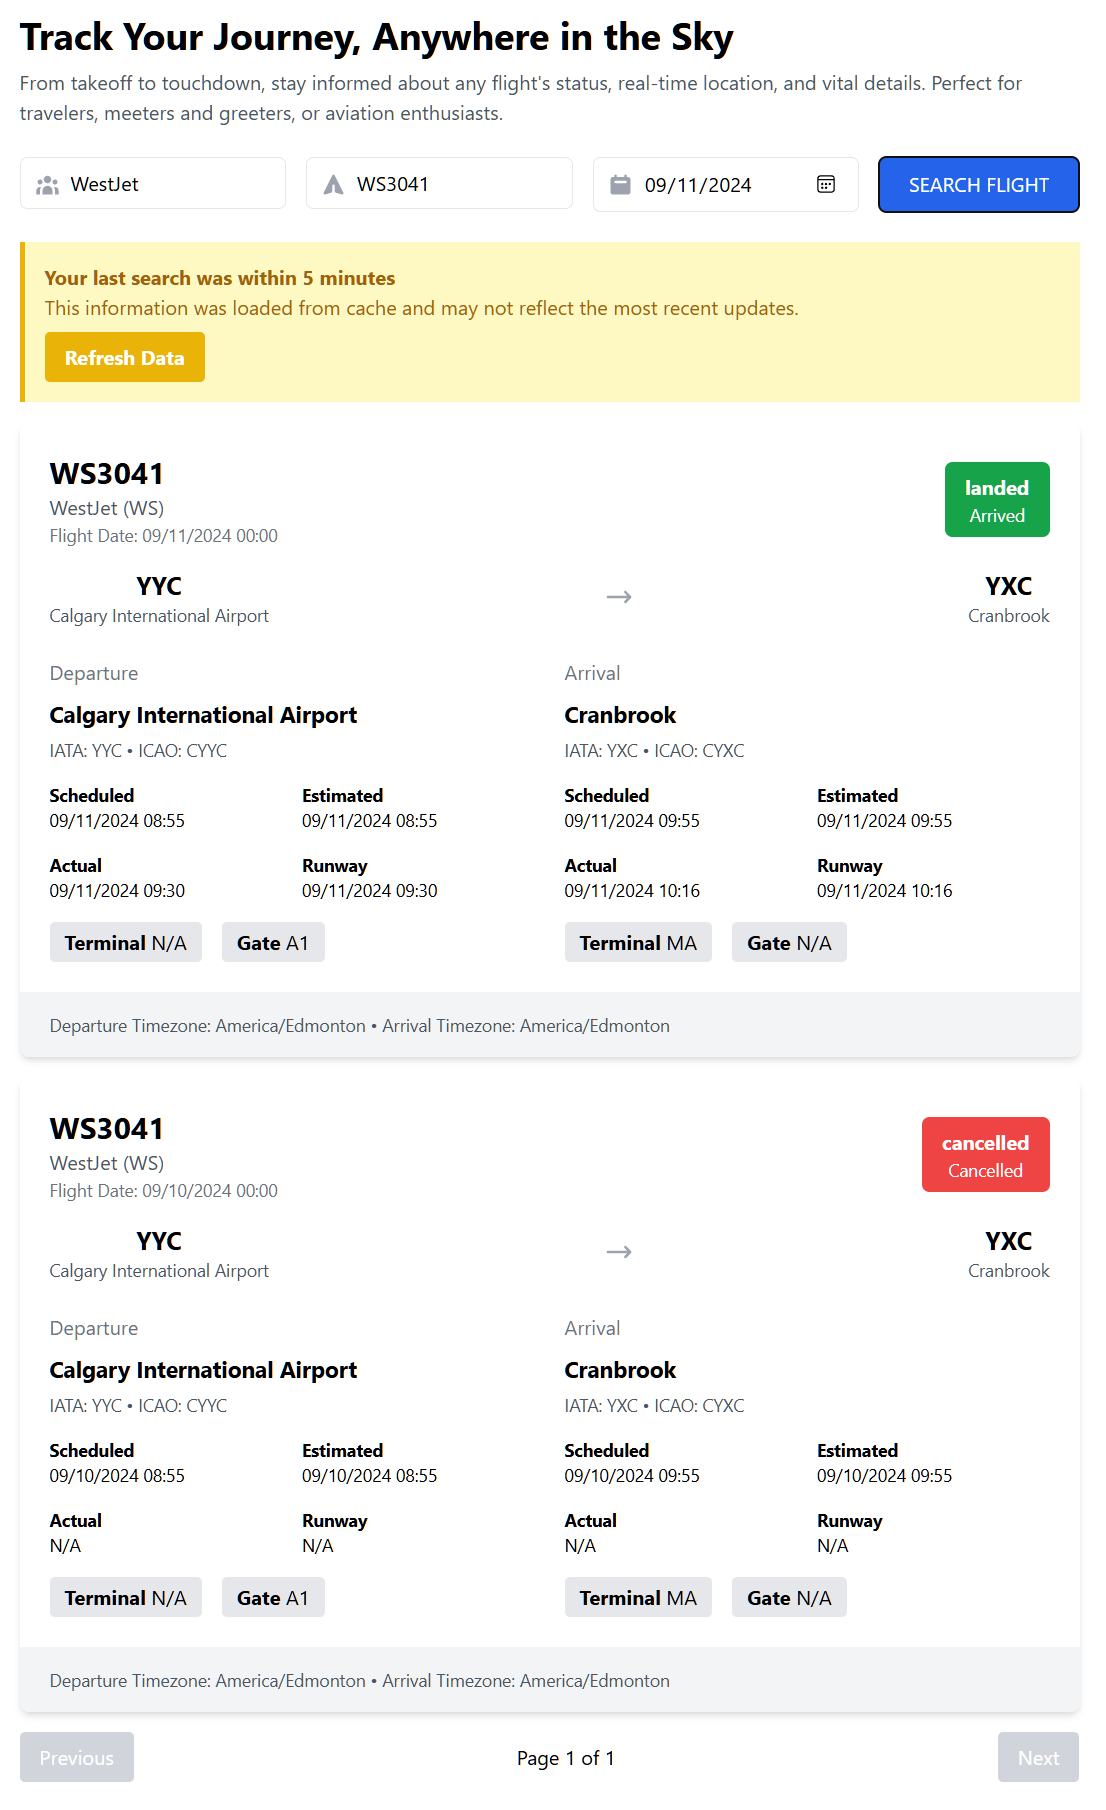
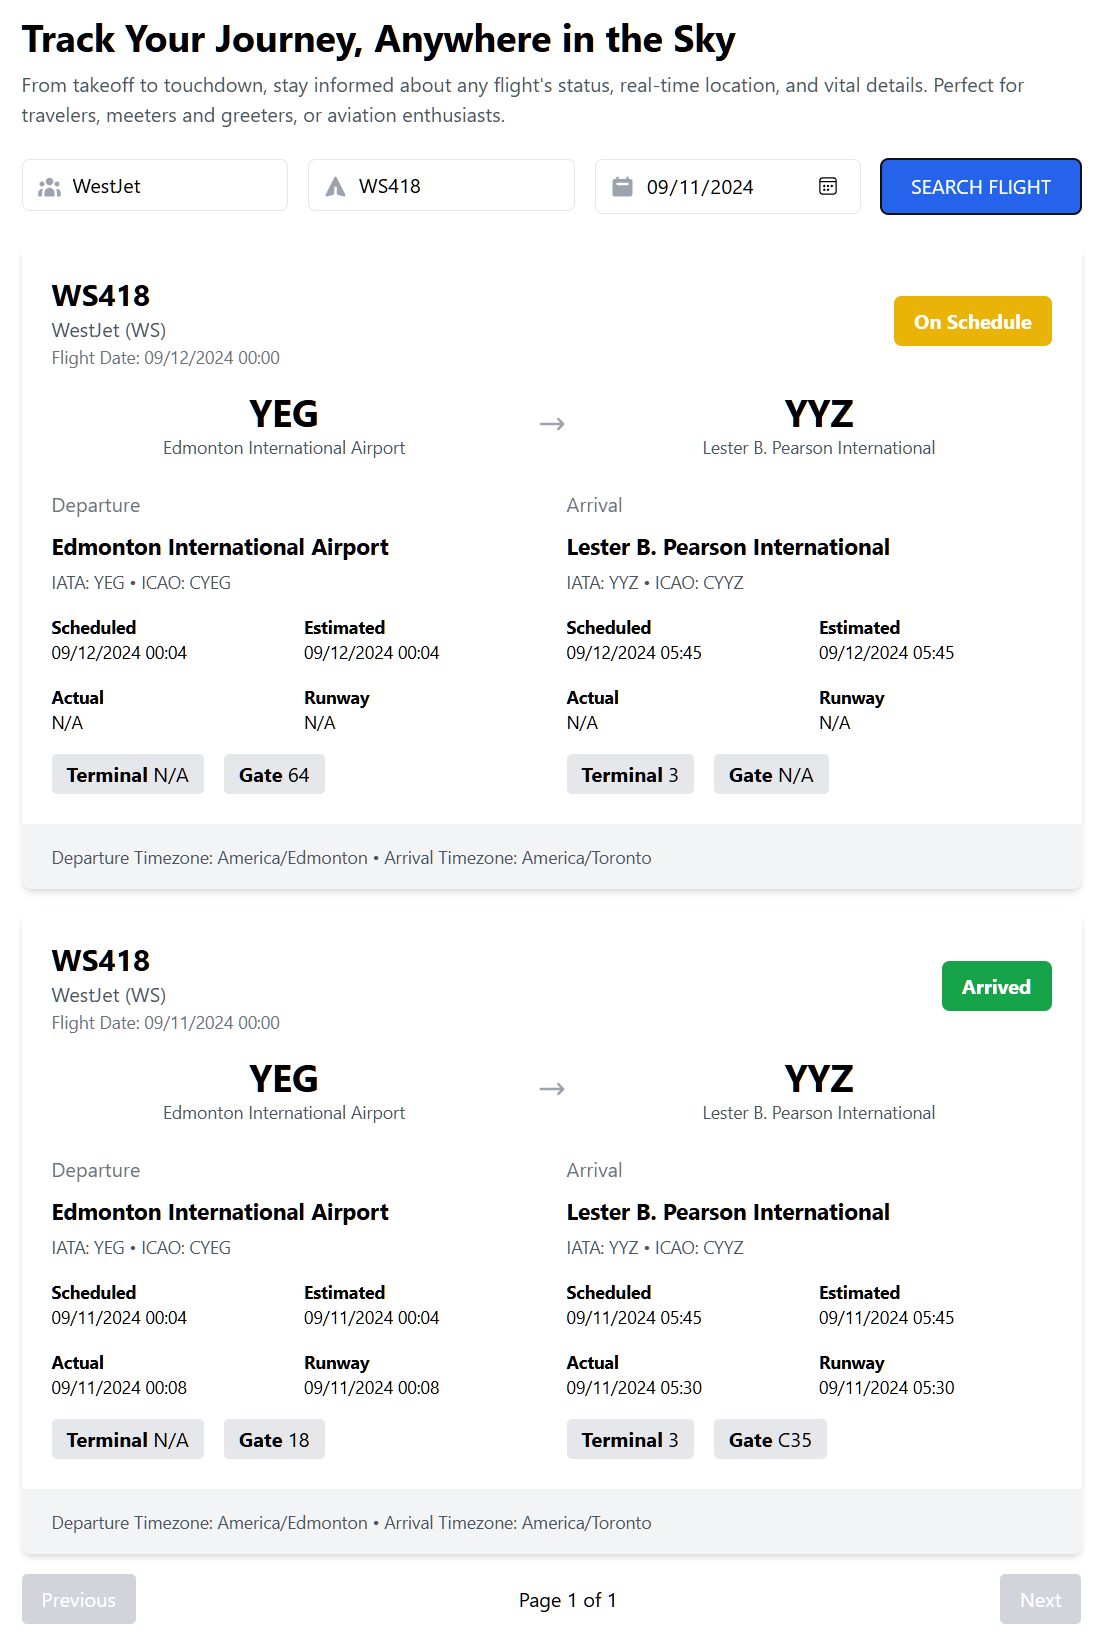
update departure/arrival display

diff --git a/src/components/App.vue b/src/components/App.vue
@@ -74,22 +74,23 @@
               <p class="text-sm text-gray-500">Flight Date: {{ formatDate(flight.flight_date) }}</p>
             </div>
             <div :class="getStatusClass(flight.flight_status)" class="px-4 py-2 rounded-md text-center">
-              <p class="font-bold">{{ flight.flight_status }}</p>
-              <p class="text-sm">{{ getStatusMessage(flight.flight_status) }}</p>
+              <p class="font-bold">{{ getStatusMessage(flight.flight_status) }}</p>
             </div>
           </div>
 
           <!-- Detailed flight information -->
-          <div class="flex justify-between items-center mb-6">
-            <div class="text-center">
-              <p class="text-xl font-bold">{{ flight.departure.iata }}</p>
+          <div class="flex items-center justify-between mb-6">
+            <div class="text-center flex-1">
+              <p class="text-3xl font-bold">{{ flight.departure.iata }}</p>
               <p class="text-sm text-gray-600">{{ flight.departure.airport }}</p>
             </div>
-            <svg class="h-6 w-6 text-gray-400" viewBox="0 0 24 24" fill="none" stroke="currentColor">
-              <path stroke-linecap="round" stroke-linejoin="round" stroke-width="2" d="M17 8l4 4m0 0l-4 4m4-4H3" />
-            </svg>
-            <div class="text-center">
-              <p class="text-xl font-bold">{{ flight.arrival.iata }}</p>
+            <div class="flex-shrink-0 mx-4">
+              <svg class="h-6 w-6 text-gray-400" viewBox="0 0 24 24" fill="none" stroke="currentColor">
+                <path stroke-linecap="round" stroke-linejoin="round" stroke-width="2" d="M17 8l4 4m0 0l-4 4m4-4H3" />
+              </svg>
+            </div>
+            <div class="text-center flex-1">
+              <p class="text-3xl font-bold">{{ flight.arrival.iata }}</p>
               <p class="text-sm text-gray-600">{{ flight.arrival.airport }}</p>
             </div>
           </div>
